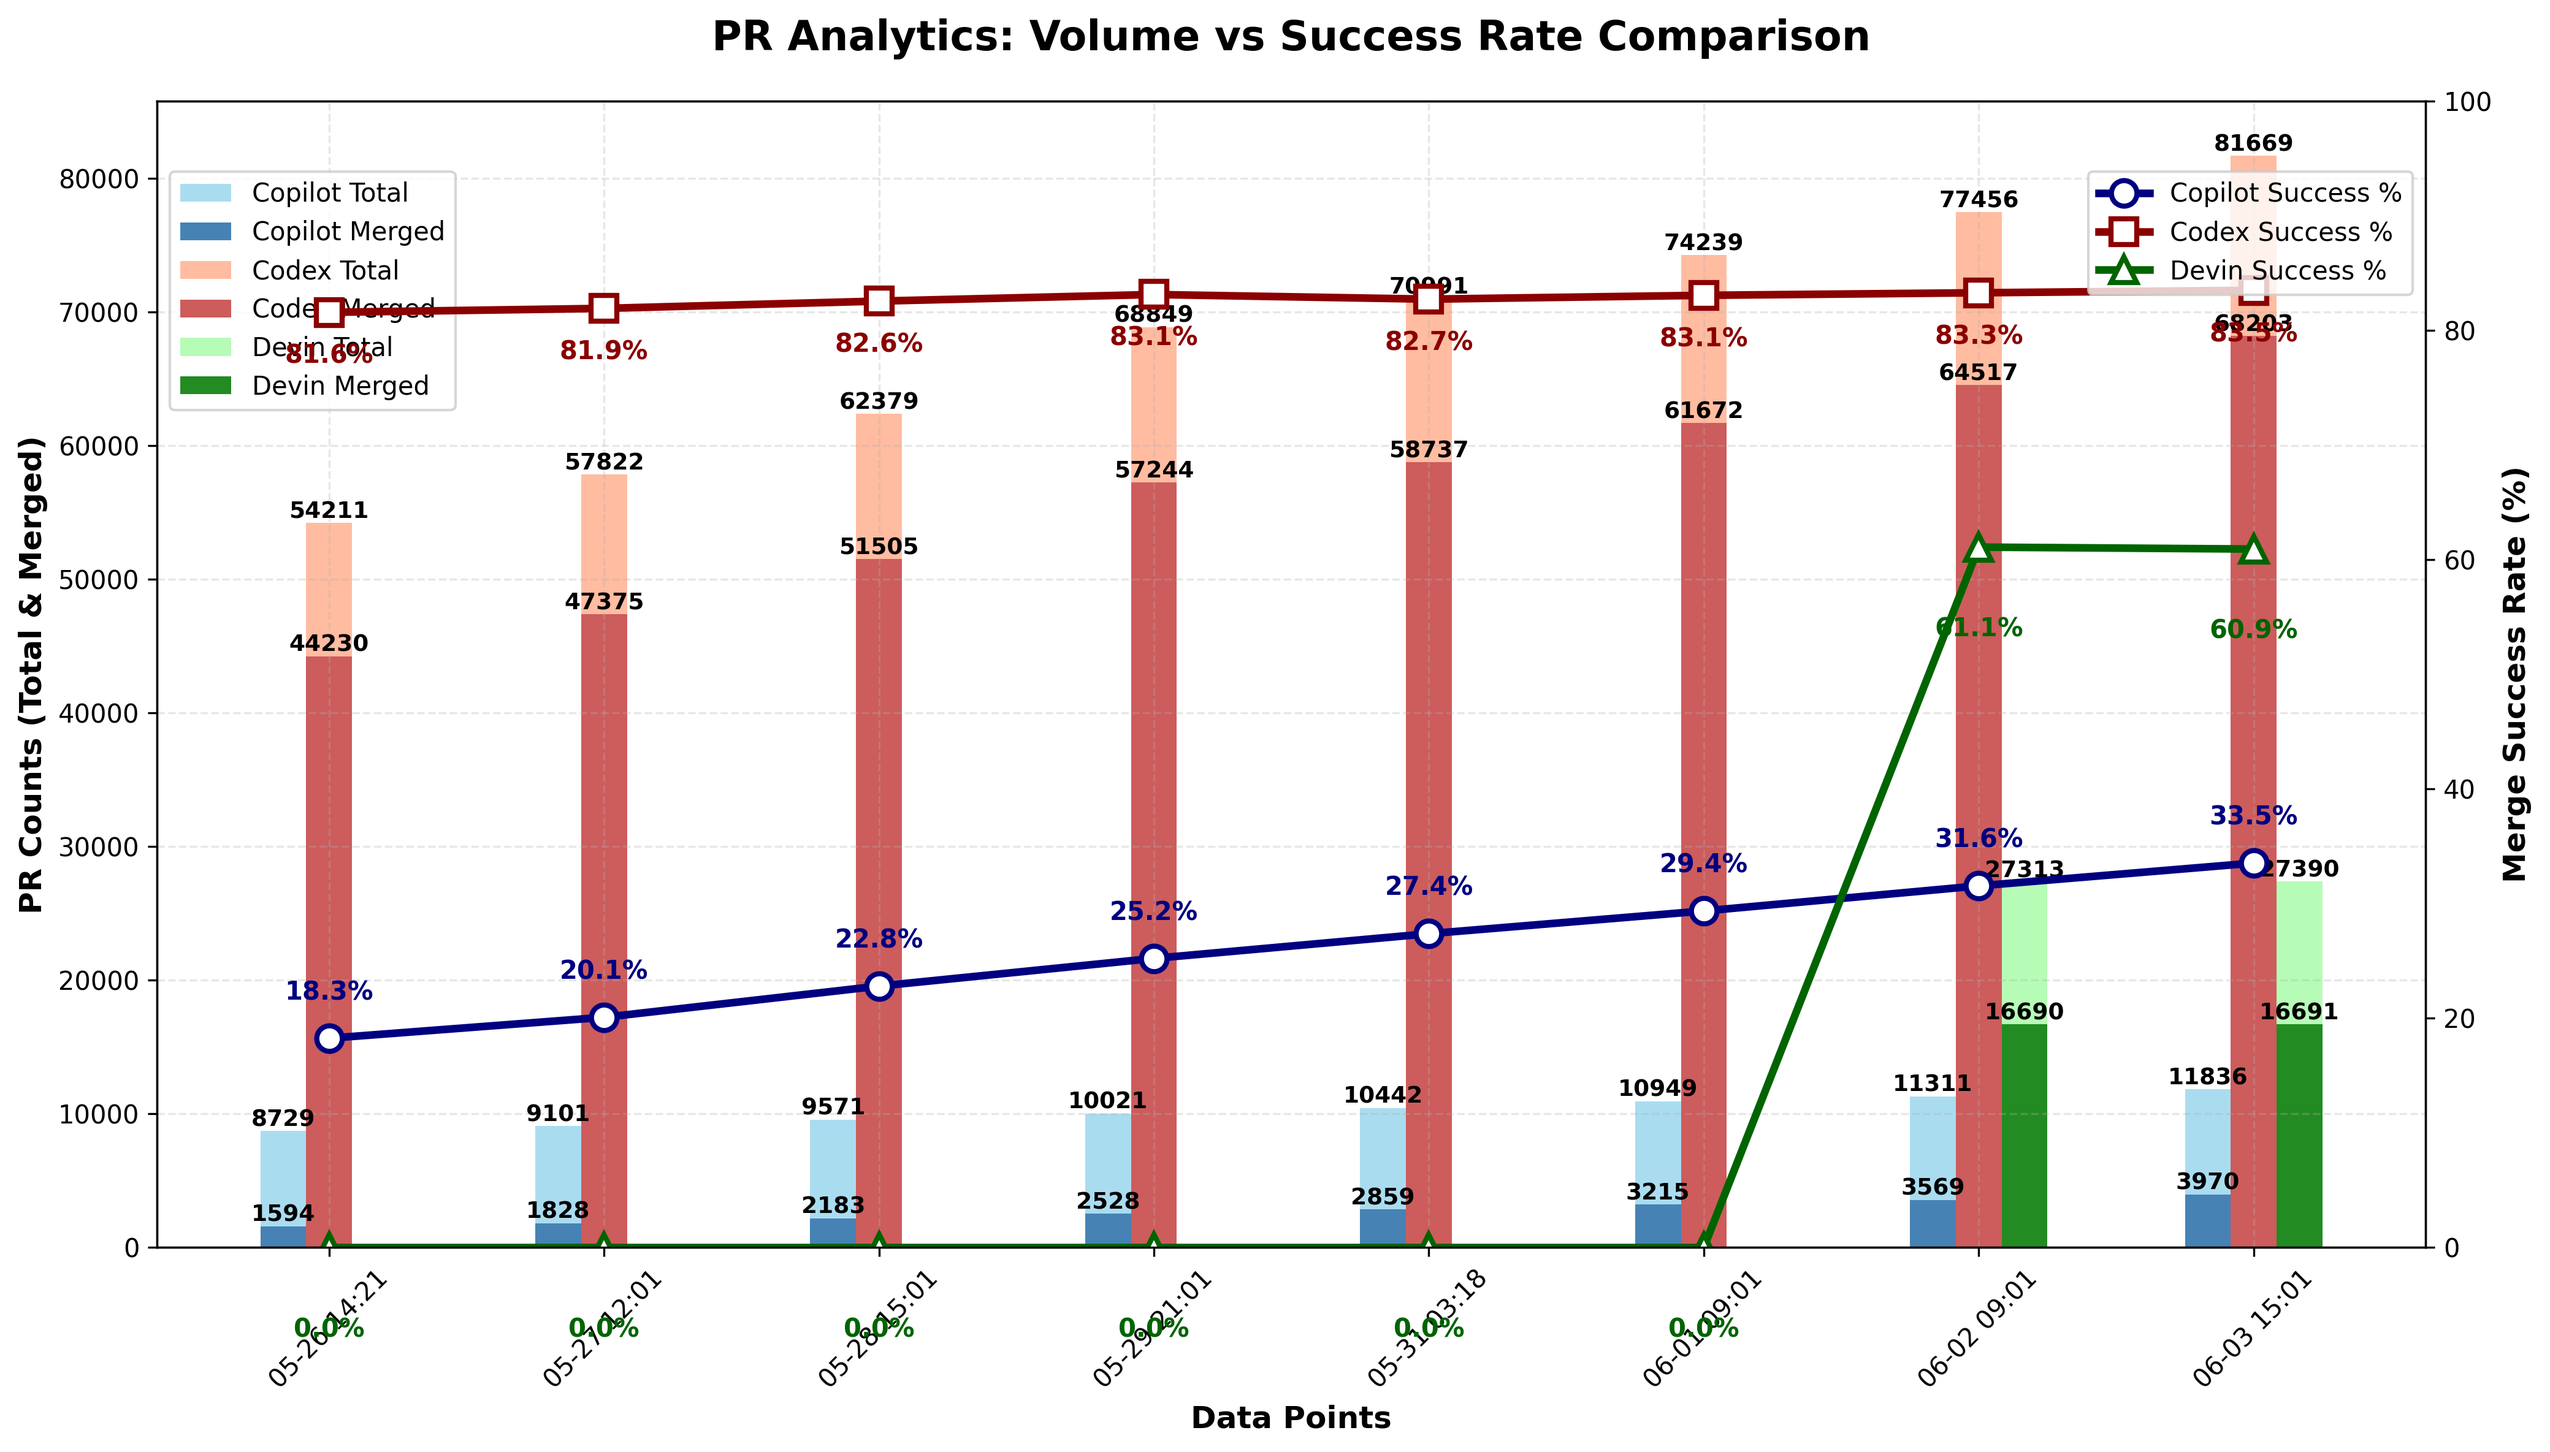
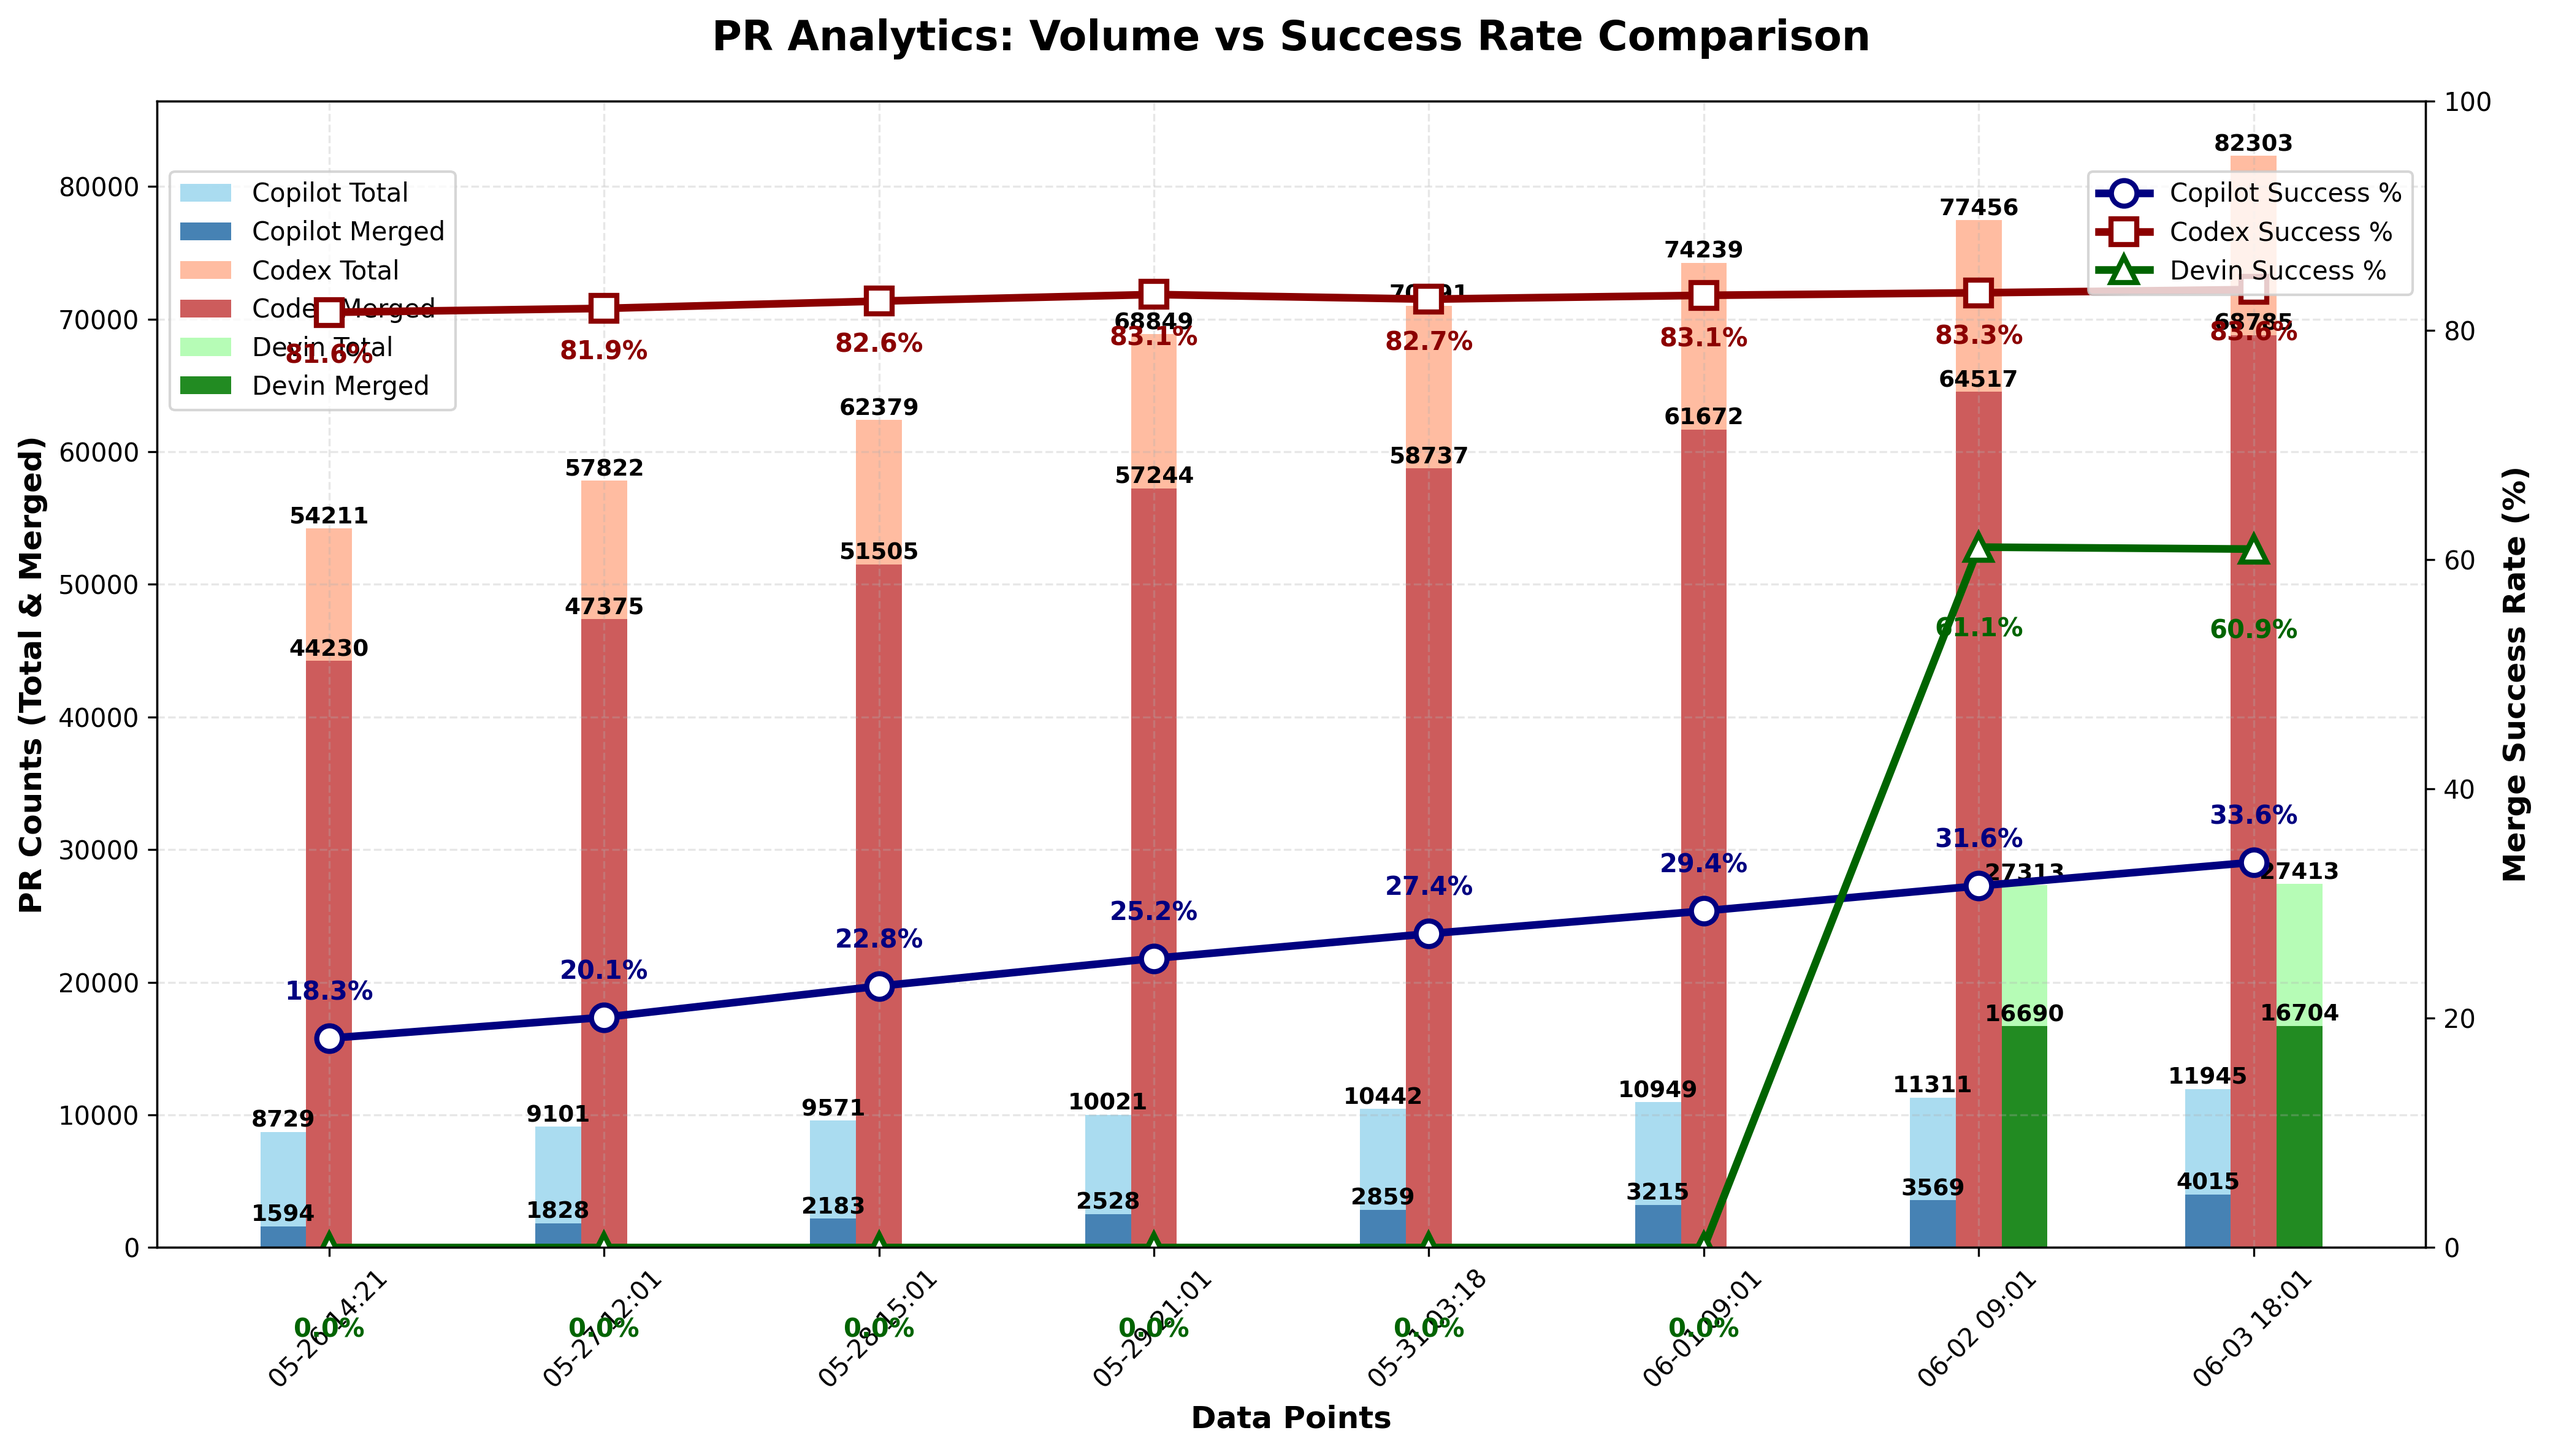
chore: update PR‑approval chart

diff --git a/docs/index.html b/docs/index.html
@@ -46,22 +46,22 @@
                 <tbody>
                     <tr>
                         <td>Copilot</td>
-                        <td>11,836</td>
-                        <td>3,970</td>
-                        <td>33.54%</td>
+                        <td>11,945</td>
+                        <td>4,015</td>
+                        <td>33.61%</td>
                     </tr>
                     <tr>
                         <td>Codex</td>
-                        <td>81,669</td>
-                        <td>68,203</td>
-                        <td>83.51%</td>
+                        <td>82,303</td>
+                        <td>68,785</td>
+                        <td>83.58%</td>
                     </tr>
                 </tbody>
             </table>
         </section>
 
         <footer>
-            <p>Last updated: <span id="last-updated">June 03, 2025 15:01 UTC</span></p>
+            <p>Last updated: <span id="last-updated">June 03, 2025 18:01 UTC</span></p>
             <p><a href="https://github.com/aavetis/ai-pr-watcher">View on GitHub</a></p>
         </footer>
     </div>

diff --git a/README.md b/README.md
@@ -21,6 +21,6 @@ Explore the GitHub search queries used:
 
 | Project | Total PRs | Merged PRs | Merge Rate |
 | ------- | --------- | ---------- | ---------- |
-| Copilot | 11,836 | 3,970 | 33.54% |
-| Codex   | 81,669 | 68,203 | 83.51% |
-| Devin   | 27,390 | 16,691 | 60.94% |
+| Copilot | 11,945 | 4,015 | 33.61% |
+| Codex   | 82,303 | 68,785 | 83.58% |
+| Devin   | 27,413 | 16,704 | 60.93% |
